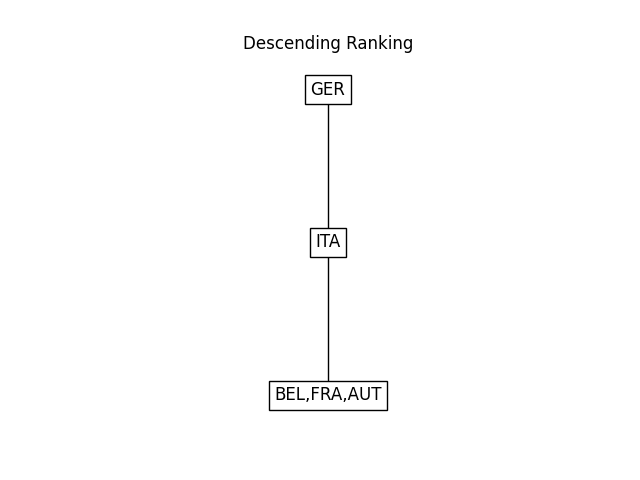
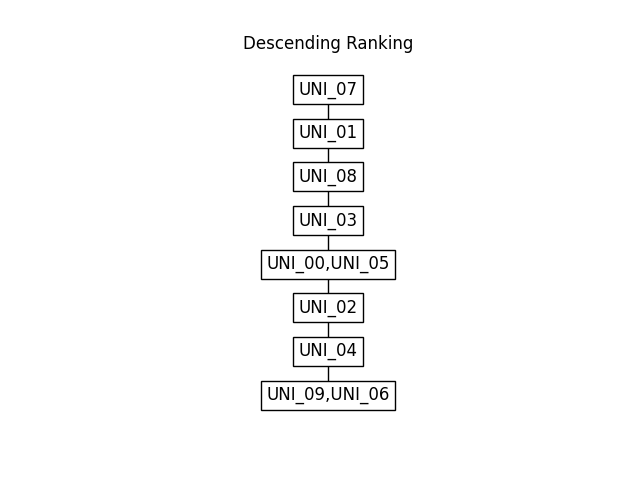
Add own dataset and preferences (created by hand). Try of usage electre iii and promethee methods on it.

Changed region(s): [[0.4062, 0.1562, 0.625, 0.875]]

diff --git a/README.md b/README.md
@@ -5,6 +5,13 @@ Inteligentne Systemy Wspomagania Decyzji
 Projekt 1-2 osobowy z terminem na 18 czerwca z wymaganiami: ????
 
 ### Projekt 2
+Nie wiem dlaczego, ale po każdym resecie cmd python zapomina o istnieniu paczki, więc koniecznie przed odpaleniem (dla standardowej ścieżki instalacyjnej pygraphviz):
+
+python -m pip install --config-settings="--global-option=build_ext" `
+              --config-settings="--global-option=-IC:\Program Files\Graphviz\include" `
+              --config-settings="--global-option=-LC:\Program Files\Graphviz\lib" `
+              pygraphviz
+
 cd projekt2
 python -m electre_iii_pl.main ./electre_iii_pl/data/lecture
 python -m promethee_pl.main ./promethee_pl/data/lecture
